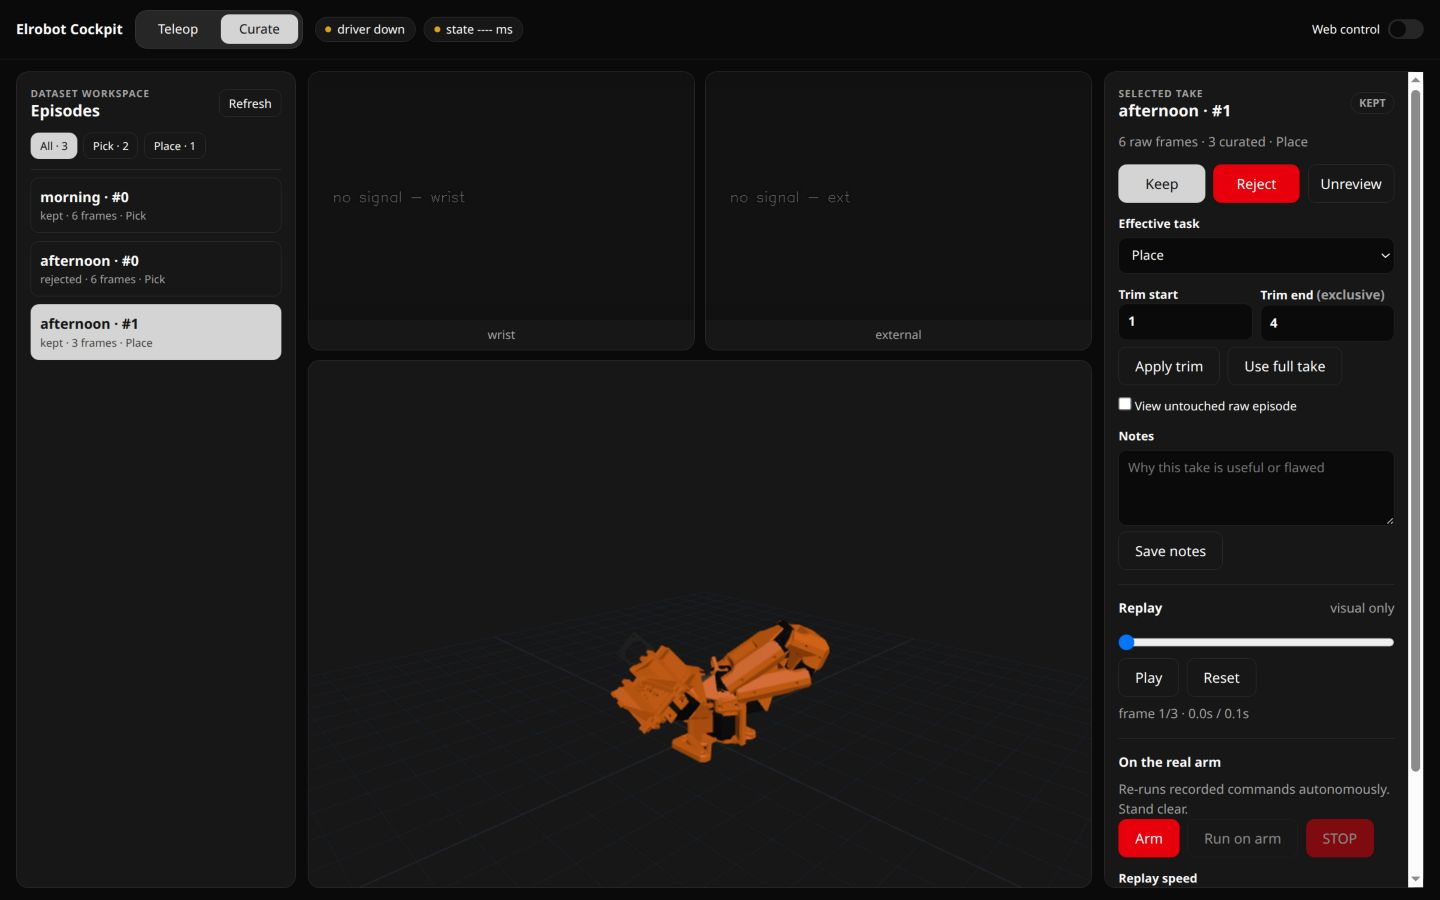
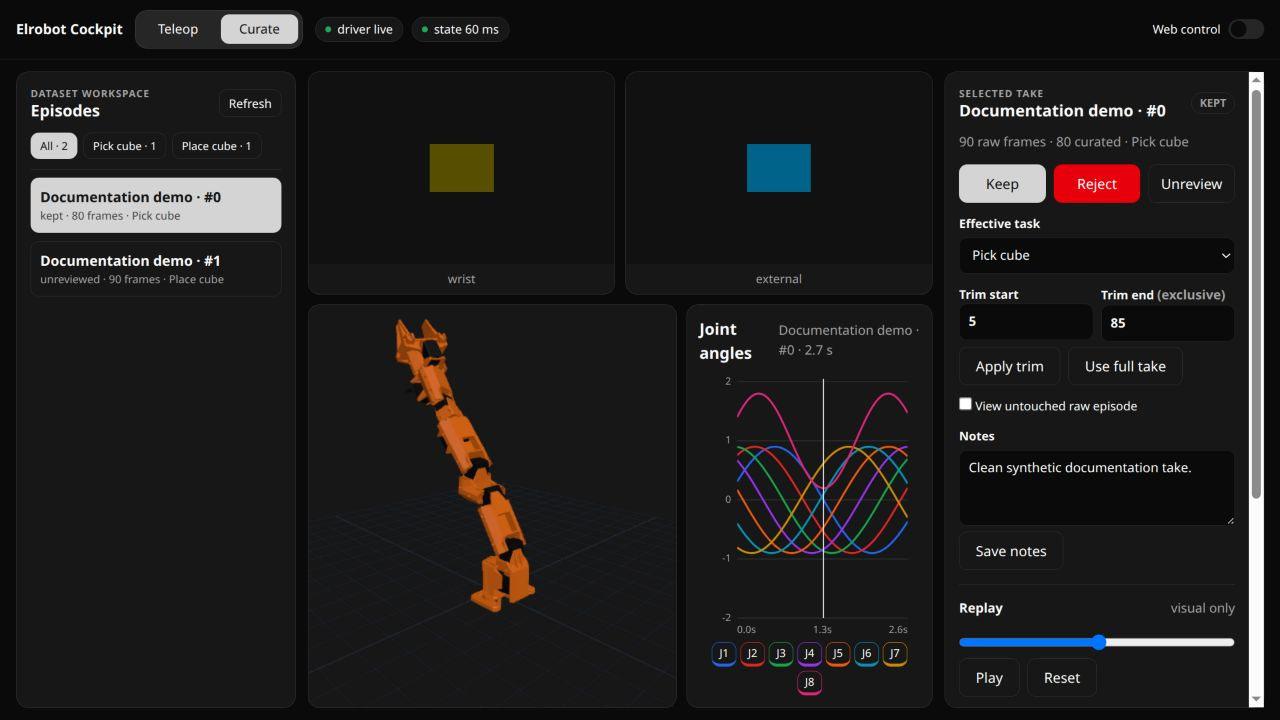
docs: show cockpit joint trajectory plot

diff --git a/src/elrobot/web/static/style.css b/src/elrobot/web/static/style.css
@@ -239,7 +239,7 @@ body {
   flex: 1;
   min-height: 0;
   display: grid;
-  grid-template-columns: minmax(0, 3fr) minmax(300px, 2fr);
+  grid-template-columns: minmax(0, 3fr) minmax(240px, 2fr);
   gap: 10px;
 }
 
@@ -260,7 +260,7 @@ body {
 #joint-plot {
   flex: 1;
   min-height: 180px;
-  height: auto !important;
+  height: 0 !important;       /* canvas backing size must not grow the flex row */
   touch-action: none;
 }
 
@@ -303,12 +303,14 @@ body {
     grid-template-columns: 1fr;
   }
   .viewer.card {
+    height: 380px;
     min-height: 380px;
   }
   .visual-row {
     grid-template-columns: 1fr;
   }
   .joint-plot-card {
+    height: 300px;
     min-height: 300px;
   }
   .deck {

diff --git a/docs/web-cockpit-guide.md b/docs/web-cockpit-guide.md
@@ -106,20 +106,24 @@ last, slew-limited. Turn one off unless you specifically want that.
 The header switches between two workspaces without creating a second 3D
 renderer or another pair of camera pollers:
 
-- **Teleop** — both camera feeds and the 3D model on the left, **Calibrate /
-  Collect** tabs in the middle, and joint sliders on the right.
-- **Curate** — task groups and episode list on the left, the same camera/3D
-  stage in the middle, and reversible review/replay/export controls on the
+- **Teleop** — both camera feeds, the 3D model, and joint-angle plot on the
+  left, **Calibrate / Collect** tabs in the middle, and joint sliders on the
   right.
+- **Curate** — task groups and episode list on the left, the same camera/3D
+  model/plot stage in the middle, and reversible review/replay/export controls
+  on the right.
 
-The camera/3D stage is always visible. Drag in the 3D view to orbit and scroll
-to zoom. The model mirrors the real arm from `/joint_states` whether or not
-you are commanding it.
+The visual stage is always visible. Drag in the 3D view to orbit and scroll to
+zoom. The model mirrors the real arm from `/joint_states` whether or not you
+are commanding it. The joint plot overlays J1–J8 in radians. In Teleop it
+retains the latest 15 seconds of `/joint_states`; click a J1–J8 legend button
+to hide or restore that line.
 
 ![Teleop and task-labelled collection workspace](assets/cockpit-teleop-collect.jpg)
 
-*Teleop → Collect. The driver and cameras were intentionally disconnected for
-this documentation capture.*
+*Teleop → Collect. The cameras are intentionally disconnected for this
+documentation capture; the joint stream is synthetic so the plot has
+representative motion.*
 
 ![Reversible episode curation workspace](assets/cockpit-curate.jpg)
 
@@ -256,6 +260,9 @@ The Curate player drives the existing 3D view and camera panels from the
 selected effective range. It never publishes `/joint_command`. Scrubbing,
 raw/curated switching, and reaching the end all remain visual-only; after the
 last frame, **Play** resets to frame zero so it can immediately be replayed.
+For a selected episode, the same plot shows the complete effective joint-angle
+trajectory and a moving playhead. Clicking or dragging in the plot scrubs the
+plot, 3D model, cameras, joint readouts, and replay timeline together.
 
 ### Replaying on the real arm
 
